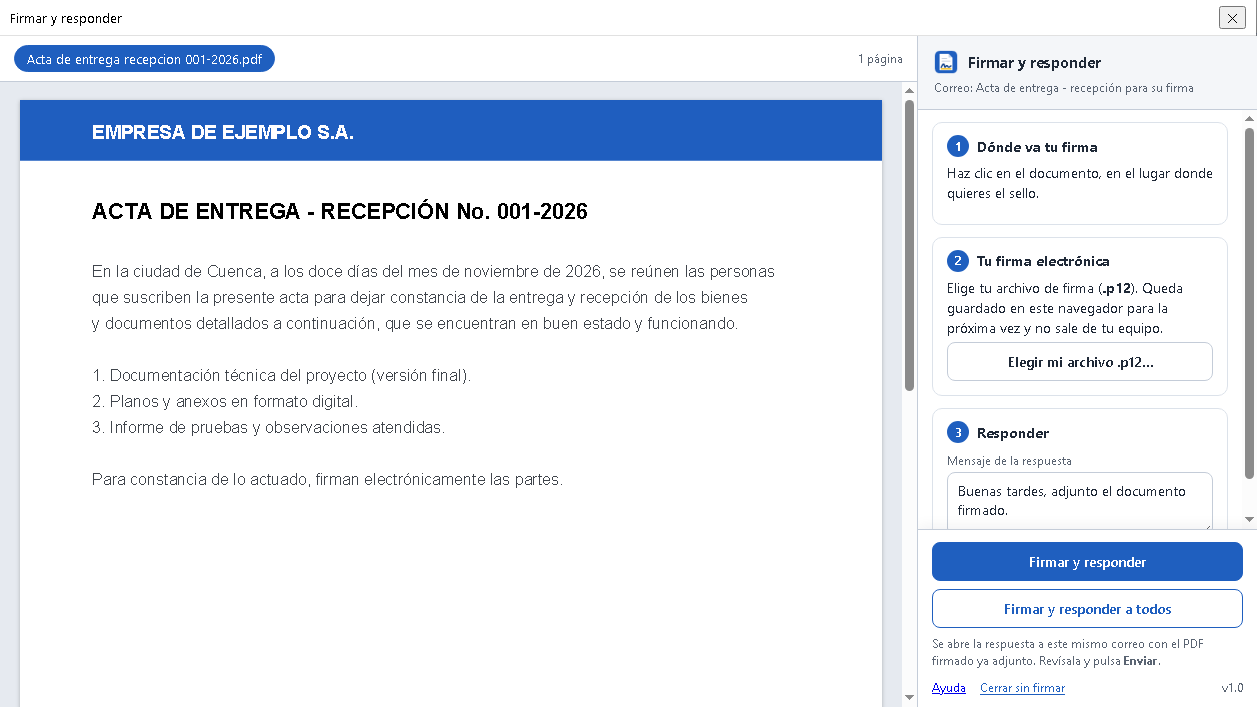
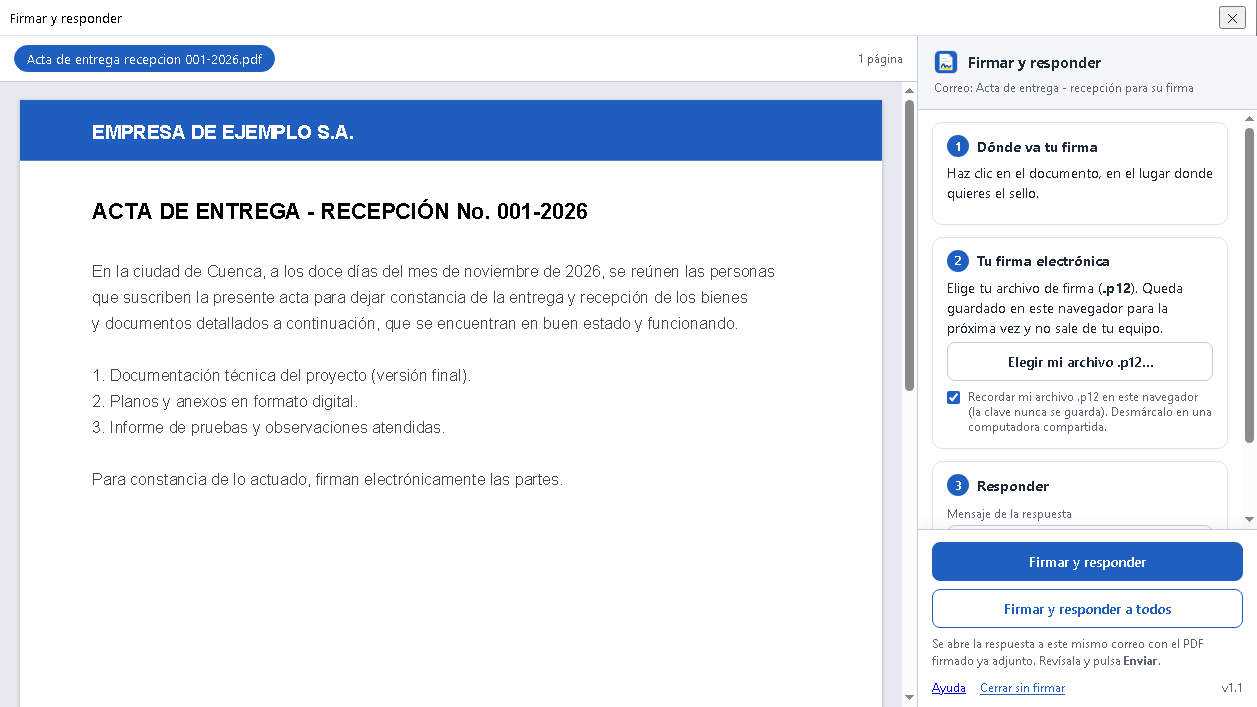
Add files via upload

Changed region(s): [[0.7446, 0.529, 0.9618, 0.7468], [0.9618, 0.6223, 1.0, 0.6846]]

diff --git a/js/firmar.js b/js/firmar.js
@@ -376,6 +376,11 @@ function rectanguloPdf(d) {
 }
 
 // ------------------------------------------------------------------ archivo .p12
+function guardarP12() {
+  const p = estado.p12;
+  if (!p) return Promise.resolve();
+  return C.almacen.guardar('p12', { nombre: p.nombre, bytes: p.bytes.buffer.slice(p.bytes.byteOffset, p.bytes.byteOffset + p.bytes.byteLength), guardado: Date.now() });
+}
 function ponerP12(nombre, bytes, guardar) {
   estado.p12 = { nombre: nombre, bytes: bytes };
   $('sinP12').hidden = true;
@@ -383,9 +388,8 @@ function ponerP12(nombre, bytes, guardar) {
   $('nombreP12').textContent = nombre;
   $('nombreP12').title = nombre;
   $('paso2').classList.add('hecha');
-  if (guardar) {
-    C.almacen.guardar('p12', { nombre: nombre, bytes: bytes.buffer.slice(bytes.byteOffset, bytes.byteOffset + bytes.byteLength), guardado: Date.now() });
-  }
+  // solo se guarda si la persona quiere que se recuerde (en una computadora compartida, no)
+  if (guardar && $('recordarP12').checked) guardarP12();
 }
 function quitarP12() {
   estado.p12 = null;
@@ -399,6 +403,18 @@ function quitarP12() {
   pintarFirmante();
   refrescarSellos();
   avisar('info', 'Se quitó tu archivo de firma de este navegador.');
+}
+function alCambiarRecordar() {
+  const recordar = $('recordarP12').checked;
+  if (recordar) {
+    guardarP12();
+    avisar('info', 'Tu archivo .p12 queda guardado en este navegador para la próxima vez.');
+  } else {
+    // se borra lo guardado; el archivo sigue en memoria solo mientras esta ventana esté abierta
+    C.almacen.borrar('p12');
+    avisar('info', 'Tu archivo .p12 ya no queda guardado en este navegador: la próxima vez se pedirá de nuevo.');
+  }
+  guardarPreferencias(null);
 }
 async function alElegirP12(ev) {
   const f = ev.target.files && ev.target.files[0];
@@ -432,7 +448,7 @@ function refrescarSellos() {
 
 // ------------------------------------------------------------------ preferencias
 function guardarPreferencias(docFirmado) {
-  const pref = { firmante: estado.firmante, mensaje: $('mensaje').value };
+  const pref = { firmante: estado.firmante, mensaje: $('mensaje').value, recordarP12: $('recordarP12').checked };
   const actual = estado.docs[estado.actual];
   const ref = (actual && actual.sello && actual.paginas) ? actual : docFirmado;
   if (ref && ref.sello && ref.paginas) {
@@ -543,7 +559,11 @@ function esperarOffice() {
 function conectarConPanel() {
   const recibir = C.receptor(alRecibirDelPanel);
   estado.enviarAlPanel = (obj) => C.enviarEnTrozos((t) => Office.context.ui.messageParent(t), obj);
-  Office.context.ui.addHandlerAsync(Office.EventType.DialogParentMessageReceived, (arg) => recibir(arg.message), (r) => {
+  Office.context.ui.addHandlerAsync(Office.EventType.DialogParentMessageReceived, (arg) => {
+    // solo se aceptan mensajes del panel de este mismo sitio
+    if (arg && arg.origin && arg.origin !== location.origin) return;
+    recibir(arg.message);
+  }, (r) => {
     if (r.status !== Office.AsyncResultStatus.Succeeded) {
       vacio('No se pudo conectar con Outlook.');
       avisar('error', 'No se pudo conectar con Outlook. Cierra esta ventana y pulsa otra vez «Firmar y responder».', r.error && r.error.message);
@@ -597,6 +617,9 @@ function conectarControles() {
   $('btnCambiarP12').addEventListener('click', () => $('archivoP12').click());
   $('btnQuitarP12').addEventListener('click', quitarP12);
   $('archivoP12').addEventListener('change', alElegirP12);
+  $('recordarP12').addEventListener('change', alCambiarRecordar);
+  // la clave no se queda en la pantalla cuando la ventana se cierra
+  window.addEventListener('pagehide', () => { $('clave').value = ''; });
   $('btnElegirPdf').addEventListener('click', () => $('archivoPdf').click());
   $('archivoPdf').addEventListener('change', (ev) => { cargarPdfsSueltos(ev.target.files); ev.target.value = ''; });
   $('btnVerClave').addEventListener('click', () => {
@@ -641,6 +664,7 @@ async function iniciar() {
   const pref = (await C.almacen.leer('preferencias')) || {};
   estado.posicion = pref.posicion || null;
   estado.firmante = pref.firmante || '';
+  $('recordarP12').checked = pref.recordarP12 !== false;
   $('mensaje').value = (typeof pref.mensaje === 'string' && pref.mensaje.trim()) ? pref.mensaje : saludo();
   const p12 = await C.almacen.leer('p12');
   if (p12 && p12.bytes) ponerP12(p12.nombre, new Uint8Array(p12.bytes), false);

diff --git a/js/panel.js b/js/panel.js
@@ -82,6 +82,8 @@
     }
     resultado = null;
     $('btnAbrir').hidden = true;
+    $('btnReabrir').hidden = true;
+    $('ayudaRespuesta').hidden = true;
     $('descargas').hidden = true;
     estado('Abriendo la ventana de firma…', 'info');
     const url = new URL('firmar.html', location.href);
@@ -94,7 +96,11 @@
         return;
       }
       dialogo = r.value;
-      dialogo.addEventHandler(Office.EventType.DialogMessageReceived, (arg) => recibir(arg.message));
+      dialogo.addEventHandler(Office.EventType.DialogMessageReceived, (arg) => {
+        // solo se aceptan mensajes de la ventana de firma de este mismo sitio
+        if (arg && arg.origin && arg.origin !== location.origin) return;
+        recibir(arg.message);
+      });
       dialogo.addEventHandler(Office.EventType.DialogEventReceived, (arg) => {
         dialogo = null;
         $('btnAbrir').hidden = false;
@@ -172,21 +178,44 @@
       return;
     }
     estado('Abriendo la respuesta…', 'info');
+    abrirRespuesta(m, (ok, error) => {
+      if (!ok) {
+        ofrecerDescargas(m.archivos);
+        estado('Outlook no pudo abrir la respuesta con el PDF firmado (' + (error || 'sin detalle') +
+          '). Pulsa «Abrir la respuesta otra vez» o descarga el PDF firmado abajo y adjúntalo a mano.', 'error');
+      } else {
+        estado('✔ Listo. Se abrió la respuesta' + (m.todos ? ' a todos' : '') + ' con ' +
+          (nombres.length === 1 ? '«' + nombres[0] + '» adjunto' : nombres.length + ' PDF firmados adjuntos') +
+          '. Revísala y pulsa Enviar.' + extra, 'ok');
+      }
+      // Outlook en la web abre la respuesta en una ventana nueva. Si la firma tardó unos segundos, el navegador
+      // puede bloquearla como «ventana emergente» y aun así Outlook responde «listo» (pasó el 18/11/2026 en Chrome):
+      // se deja a la vista un botón para abrirla de nuevo con un clic (con un clic, el navegador ya no la bloquea).
+      $('btnReabrir').hidden = false;
+      $('ayudaRespuesta').hidden = false;
+    });
+  }
+  function abrirRespuesta(m, alTerminar) {
     const datos = {
       htmlBody: htmlMensaje(m.mensaje),
       attachments: m.archivos.map((a) => ({ type: 'base64', name: a.nombre, base64file: a.base64 }))
     };
     const metodo = m.todos ? 'displayReplyAllFormAsync' : 'displayReplyFormAsync';
-    item[metodo](datos, (r) => {
-      if (r.status !== Office.AsyncResultStatus.Succeeded) {
-        ofrecerDescargas(m.archivos);
-        estado('Outlook no pudo abrir la respuesta con el PDF firmado (' + ((r.error && r.error.message) || 'sin detalle') +
-          '). Descarga el PDF firmado abajo y adjúntalo a mano.', 'error');
-        return;
-      }
-      estado('✔ Listo. Se abrió la respuesta' + (m.todos ? ' a todos' : '') + ' con ' +
-        (nombres.length === 1 ? '«' + nombres[0] + '» adjunto' : nombres.length + ' PDF firmados adjuntos') +
-        '. Revísala y pulsa Enviar.' + extra, 'ok');
+    try {
+      item[metodo](datos, (r) => {
+        if (r.status !== Office.AsyncResultStatus.Succeeded) alTerminar(false, r.error && r.error.message);
+        else alTerminar(true);
+      });
+    } catch (e) {
+      alTerminar(false, e && e.message);
+    }
+  }
+  function reabrirRespuesta() {
+    if (!resultado) return;
+    // se llama directamente desde el clic: así el navegador deja abrir la ventana de la respuesta
+    abrirRespuesta(resultado, (ok, error) => {
+      if (!ok) estado('Outlook no pudo abrir la respuesta (' + (error || 'sin detalle') + '). Descarga el PDF firmado abajo y adjúntalo a mano.', 'error');
+      else estado('✔ Se abrió otra vez la respuesta con el PDF firmado. Revísala y pulsa Enviar.', 'ok');
     });
   }
 
@@ -205,6 +234,7 @@
     pdfs = (item.attachments || []).filter(esPdf);
     pintarLista();
     $('btnAbrir').addEventListener('click', abrirDialogo);
+    $('btnReabrir').addEventListener('click', reabrirRespuesta);
     if (!pdfs.length) { estado('Este correo no tiene archivos PDF adjuntos.', 'info'); return; }
     abrirDialogo();
   });

diff --git a/ayuda.html b/ayuda.html
@@ -2,6 +2,7 @@
 <html lang="es">
 <head>
 <meta charset="utf-8">
+<meta http-equiv="Content-Security-Policy" content="default-src 'self'; script-src 'none'; style-src 'self' 'unsafe-inline'; img-src 'self'; object-src 'none'; base-uri 'self'; form-action 'none'">
 <meta name="viewport" content="width=device-width, initial-scale=1">
 <title>Ayuda - Firmar y responder</title>
 <link rel="icon" href="img/icono-32.png">
@@ -73,6 +74,28 @@
   </details>
 
   <details>
+    <summary>Seguridad: ¿qué pasa con mi clave y mi archivo .p12?</summary>
+    <ul>
+      <li><b>Tu clave</b> se escribe en la ventana de firma, se usa en ese momento para abrir tu .p12 y firmar, y se
+        borra. No se guarda en ningún lado y no se envía a ninguna parte.</li>
+      <li><b>Tu archivo .p12</b>: si dejas marcada la casilla <b>Recordar</b>, queda guardado dentro de tu navegador,
+        en tu computadora, como si estuviera en tu escritorio, y sigue protegido por su clave. En una computadora
+        compartida, desmarca <b>Recordar</b> o pulsa <b>Quitar</b> al terminar.</li>
+      <li><b>Lo que sale de tu computadora</b> es solo el PDF firmado, y solo cuando tú pulsas <b>Enviar</b>. El
+        complemento no envía correos por su cuenta.</li>
+      <li><b>Lo que ve en Outlook</b>: solo el correo que tienes abierto (su asunto y sus adjuntos). No puede leer
+        otros correos ni tus contactos.</li>
+      <li>Cada página trae una <b>política de seguridad</b> que hace que el propio navegador prohíba enviar datos a
+        cualquier servidor que no sea este sitio y cargar código de otros lados (salvo office.js de Microsoft,
+        obligatorio en Outlook).</li>
+      <li>Lo único en lo que hay que confiar es en <b>quien controla el sitio publicado</b>. Quien lo publica
+        tiene un <code>COMPROBAR_SITIO.bat</code> que verifica, archivo por archivo, que lo publicado no haya
+        cambiado.</li>
+      <li>Nadie te pedirá nunca tu clave por correo ni por teléfono. Tu .p12 y tu clave no se comparten.</li>
+    </ul>
+  </details>
+
+  <details>
     <summary>Varios PDF en el mismo correo</summary>
     <p>Arriba de la ventana aparece una pestaña por cada PDF. Pon el sello en los que quieras firmar (se marcan
       con ✔). Al pulsar Firmar y responder se adjuntan todos los firmados. Los que no tienen sello no se firman
@@ -89,6 +112,15 @@
   <details>
     <summary>Si algo sale mal</summary>
     <ul>
+      <li><b>Firmé pero no veo la respuesta (no aparece Enviar)</b>: Outlook abre la respuesta en una
+        <b>ventana nueva</b>. Mira la ventana principal de Outlook o la carpeta <b>Borradores</b>. Si en la barra de
+        direcciones del navegador aparece el aviso de <b>ventana emergente bloqueada</b>, ábrelo y elige
+        «Permitir siempre» para Outlook. Después pulsa <b>¿No ves la respuesta? Ábrela otra vez</b> en el panel:
+        se abre con el mismo PDF firmado, sin volver a firmar.
+        <figure>
+          <img src="img/guia/panel_listo.png" alt="El panel después de firmar, con el botón ¿No ves la respuesta? Ábrela otra vez" style="max-width:360px">
+          <figcaption>El panel después de firmar: si la respuesta no apareció, el botón la abre otra vez.</figcaption>
+        </figure></li>
       <li><b>«La clave no es correcta»</b>: escríbela de nuevo; ojo con las mayúsculas. Con el botón <b>Ver</b>
         puedes mirar lo que escribiste.</li>
       <li><b>«Tu firma electrónica venció»</b>: hay que renovarla con la entidad que la emitió.</li>
@@ -117,7 +149,7 @@
     </ol>
   </details>
 
-  <p class="tenue" style="margin-top:28px">Firmar y responder v1.0 · usa pdf.js, pdf-lib, forge y qrcode-generator
+  <p class="tenue" style="margin-top:28px">Firmar y responder v1.1 · usa pdf.js, pdf-lib, forge y qrcode-generator
     (licencias en <a href="lib/LICENCIAS.txt" target="_blank" rel="noopener">lib/LICENCIAS.txt</a>).</p>
 </main>
 </body>

diff --git a/index.html b/index.html
@@ -2,6 +2,10 @@
 <html lang="es">
 <head>
 <meta charset="utf-8">
+<!-- Política de seguridad: el navegador NO deja que esta página mande datos a otro servidor que no sea este sitio
+     (connect-src), ni que ejecute código que no venga de este sitio o de Microsoft (script-src), ni formularios.
+     'unsafe-eval' está SOLO porque office.js de Microsoft (microsoftajax.js) lo necesita para arrancar. -->
+<meta http-equiv="Content-Security-Policy" content="default-src 'self'; script-src 'self' 'unsafe-eval' https://appsforoffice.microsoft.com; connect-src 'self' https://appsforoffice.microsoft.com; style-src 'self' 'unsafe-inline' https://appsforoffice.microsoft.com; img-src 'self' data: blob: https://appsforoffice.microsoft.com; font-src 'self' data:; frame-src https://appsforoffice.microsoft.com; object-src 'none'; base-uri 'self'; form-action 'none'">
 <meta name="viewport" content="width=device-width, initial-scale=1">
 <title>Firmar y responder</title>
 <link rel="icon" href="img/icono-32.png">
@@ -23,6 +27,10 @@
   <section id="lista" class="lista" aria-label="PDF del correo"></section>
 
   <div class="acciones">
+    <button type="button" id="btnReabrir" class="btn secundario" hidden>¿No ves la respuesta? Ábrela otra vez</button>
+    <p id="ayudaRespuesta" class="nota" hidden>Outlook abre la respuesta en una <b>ventana nueva</b>. Si no aparece:
+      mira la ventana principal de Outlook o la carpeta <b>Borradores</b>; y si en la barra de direcciones del
+      navegador sale el aviso de <b>ventana emergente bloqueada</b>, elige «Permitir siempre» para Outlook.</p>
     <button type="button" id="btnAbrir" class="btn primario" hidden>Abrir para firmar</button>
   </div>
   <section id="descargas" class="descargas" hidden></section>

diff --git a/firmar.html b/firmar.html
@@ -2,6 +2,12 @@
 <html lang="es">
 <head>
 <meta charset="utf-8">
+<!-- Política de seguridad: el navegador NO deja que esta página mande datos a otro servidor que no sea este sitio
+     (connect-src), ni que ejecute código que no venga de este sitio o de Microsoft (script-src), ni formularios.
+     Así, ni una librería ni un PDF malicioso podrían mandar tu clave o tu .p12 a ninguna parte por la red.
+     'unsafe-eval' está SOLO porque office.js de Microsoft (microsoftajax.js) lo necesita para arrancar: sin eso,
+     Outlook no puede usar el complemento (probado el 18/11/2026 con el office.js real; pdf.js va con isEvalSupported=false). -->
+<meta http-equiv="Content-Security-Policy" content="default-src 'self'; script-src 'self' 'unsafe-eval' https://appsforoffice.microsoft.com; connect-src 'self' https://appsforoffice.microsoft.com; style-src 'self' 'unsafe-inline' https://appsforoffice.microsoft.com; img-src 'self' data: blob: https://appsforoffice.microsoft.com; font-src 'self' data:; frame-src https://appsforoffice.microsoft.com; worker-src 'self'; object-src 'none'; base-uri 'self'; form-action 'none'">
 <meta name="viewport" content="width=device-width, initial-scale=1">
 <title>Firmar y responder</title>
 <link rel="icon" href="img/icono-32.png">
@@ -70,6 +76,10 @@
         </div>
         <div class="firmante tenue" id="firmante"></div>
       </div>
+      <label class="recordar" for="recordarP12">
+        <input type="checkbox" id="recordarP12" checked>
+        <span>Recordar mi archivo .p12 en este navegador (la clave nunca se guarda). Desmárcalo en una computadora compartida.</span>
+      </label>
       <input type="file" id="archivoP12" accept=".p12,.pfx,application/x-pkcs12" hidden>
     </section>
 

diff --git a/comandos.html b/comandos.html
@@ -2,10 +2,11 @@
 <html lang="es">
 <head>
 <meta charset="utf-8">
+<meta http-equiv="Content-Security-Policy" content="default-src 'self'; script-src 'self' 'unsafe-eval' https://appsforoffice.microsoft.com; connect-src 'self' https://appsforoffice.microsoft.com; style-src 'self' 'unsafe-inline' https://appsforoffice.microsoft.com; img-src 'self' data: blob: https://appsforoffice.microsoft.com; font-src 'self' data:; frame-src https://appsforoffice.microsoft.com; object-src 'none'; base-uri 'self'; form-action 'none'">
 <title>Firmar y responder - comandos</title>
 <!-- Outlook pide un "archivo de funciones" aunque el boton solo abra el panel. -->
 <script src="https://appsforoffice.microsoft.com/lib/1/hosted/office.js"></script>
-<script>Office.onReady(function () {});</script>
+<script src="js/comandos.js"></script>
 </head>
 <body></body>
 </html>

diff --git a/css/estilo.css b/css/estilo.css
@@ -123,6 +123,10 @@ body.dialogo { height: 100vh; overflow: hidden; }
 .archivo-p12 .acciones { display: flex; gap: 10px; flex: none; font-size: 12px; }
 .clave { position: relative; }
 .clave input { padding-right: 64px; }
+/* Edge pone su propio ojo en los cuadros de clave; ya está el botón «Ver» (salían dos) */
+.clave input::-ms-reveal, .clave input::-ms-clear { display: none; }
+.recordar { display: flex; align-items: flex-start; gap: 8px; margin: 8px 0 0; font-size: 12px; color: var(--tenue); cursor: pointer; }
+.recordar input { margin: 2px 0 0; accent-color: var(--azul); }
 .clave .btn-ver { position: absolute; right: 8px; top: 50%; transform: translateY(-50%); font-size: 12px; }
 .firmante { margin-top: 6px; }
 .botones { display: flex; flex-direction: column; gap: 8px; margin-top: 12px; }

diff --git a/js/firmador.js b/js/firmador.js
@@ -30,7 +30,7 @@
 
     // Medidas y textos del sello tal como lo deja FirmaEC 5.1.0 (revisado en PDF reales firmados con el):
     // 110 x 36 puntos, QR de 36 x 36 a la izquierda (sin margen), texto desde x = 36.67, letras de 3.25 y 6.25.
-    const VERSION = '1.0';
+    const VERSION = '1.1';
     const SELLO = { ancho: 110, alto: 36, letraChica: 3.25, letraNombre: 6.25 };
     const VALIDAR_CON = 'VALIDAR CON: https://www.firmadigital.gob.ec';
     const HECHO_CON = 'Firmado digitalmente con Firmar y responder ' + VERSION;

diff --git a/js/comandos.js b/js/comandos.js
@@ -1,0 +1,2 @@
+/* Outlook pide un "archivo de funciones" aunque el boton solo abra el panel. */
+Office.onReady(function () {});
